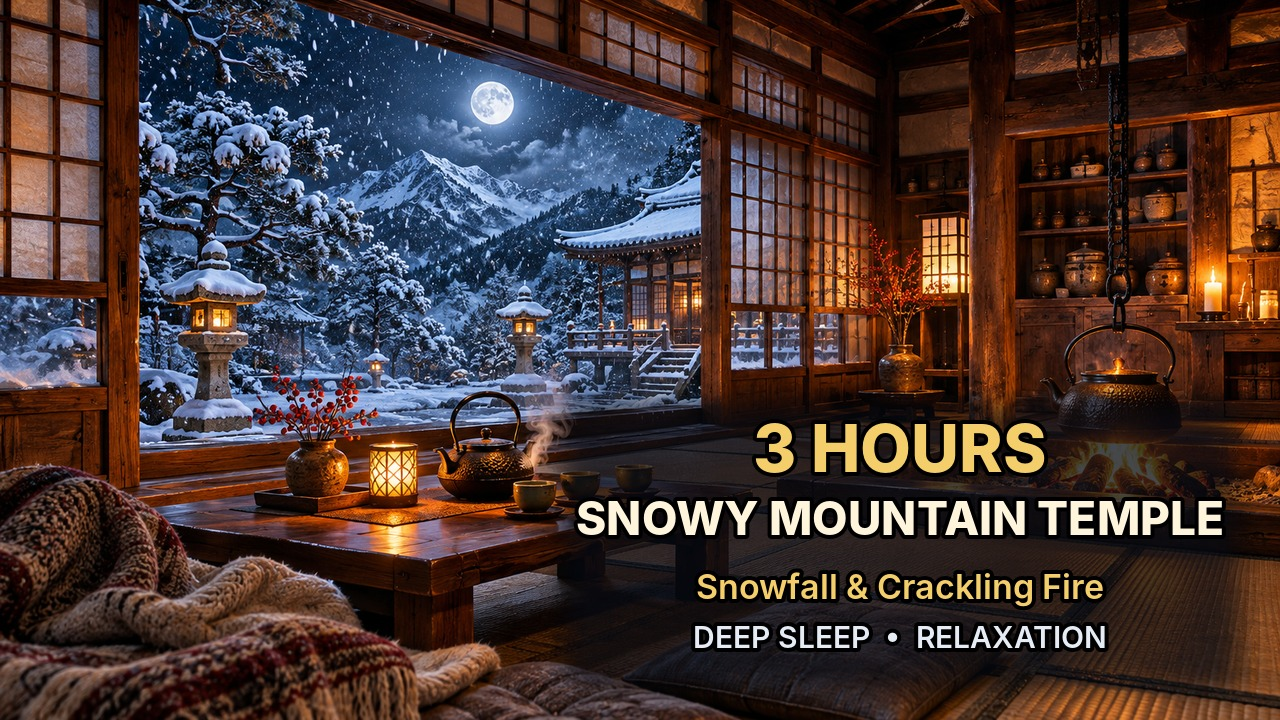
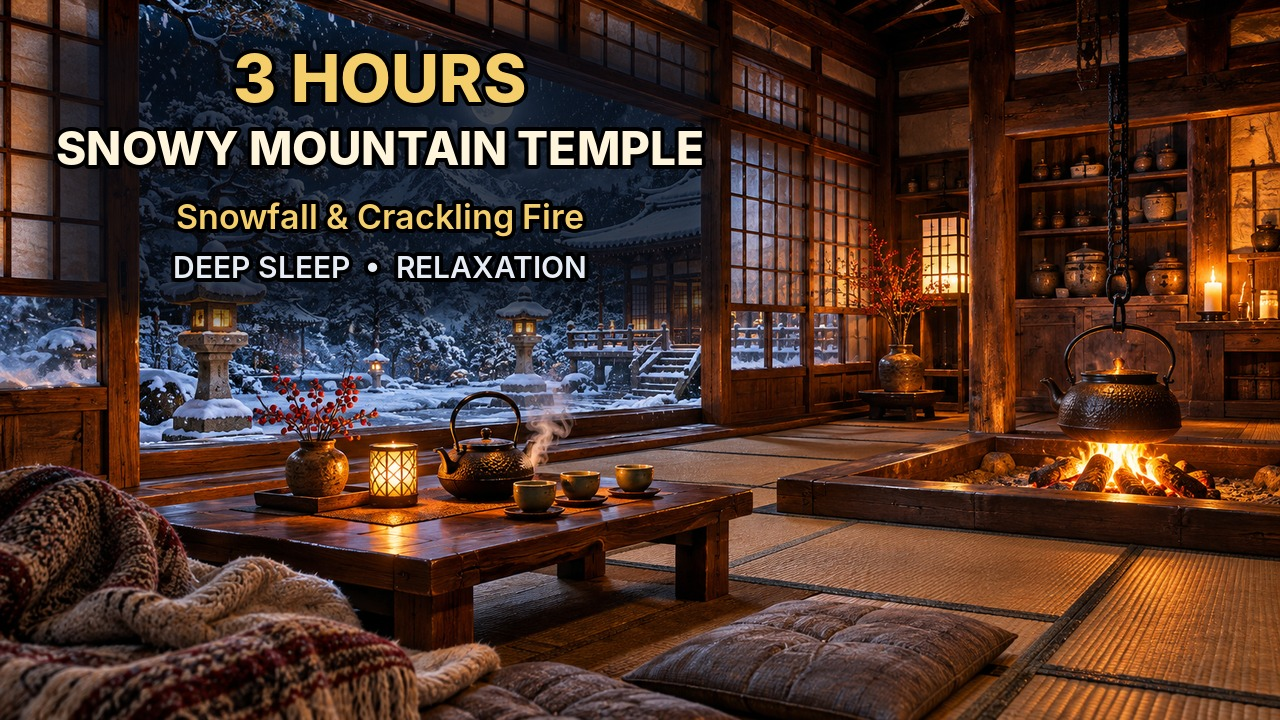
Ateş klibi için parlaklık maskesi (parlak_esik): 26 ve 28'de tuğla levha giderildi; 26 küçük resim yazısı sol üstte
Claude-Session: https://claude.ai/code/session_01BaFTGHwpYBEfroc1wrqooK

diff --git a/dream-window/kapak.py b/dream-window/kapak.py
@@ -78,7 +78,7 @@ def secenek_B(kaynak, baslik, alt):
     return im.convert("RGB")
 
 
-def secenek_C(kaynak, baslik, alt, odak_xy):
+def secenek_C(kaynak, baslik, alt, odak_xy, sol_ust=False):
     ox, oy = odak_xy
     z = 1.18                                                          # hafif yakınlaş (ateş ve pencere kadrajda kalsın)
     w, h = G / z, Y / z
@@ -86,6 +86,16 @@ def secenek_C(kaynak, baslik, alt, odak_xy):
     y0 = min(max(oy * Y - h / 2, 0), Y - h)
     im = kaynak.crop((int(x0), int(y0), int(x0 + w), int(y0 + h))).resize((G, Y), Image.LANCZOS)
     im = im.filter(ImageFilter.UnsharpMask(radius=2, percent=60, threshold=2)).convert("RGBA")
+    if sol_ust:                                                       # ateş alt yarıda görünür kalsın: başlık sol üstte
+        karart = Image.new("L", im.size, 0)
+        ImageDraw.Draw(karart).ellipse((-500, -420, 900, 380), fill=150)
+        im = Image.composite(Image.new("RGBA", im.size, (0, 0, 0, 255)), im, karart.filter(ImageFilter.GaussianBlur(120)))
+        ciz = ImageDraw.Draw(im)
+        f1 = font_sigdir(ciz, baslik, KALIN, 80, 760)
+        golgeli_yazi(im, (56, 56), baslik, f1, BEYAZ)
+        t = f"3 HOURS  ·  {alt.upper()}"
+        golgeli_yazi(im, (58, 56 + int(f1.size * 1.15)), t, font_sigdir(ciz, t, YARI, 34, 760), ALTIN, golge=6, cizgi=3)
+        return im.convert("RGB")
     alt_karart = Image.new("L", im.size, 0)                           # alt bandı koyulaştır
     ImageDraw.Draw(alt_karart).rectangle((0, 470, G, Y), fill=190)
     im = Image.composite(Image.new("RGBA", im.size, (0, 0, 0, 255)), im, alt_karart.filter(ImageFilter.GaussianBlur(70)))
@@ -107,7 +117,7 @@ def main():
         kaynak = Image.open(klasor / ayar.get("gorsel_4k", ayar["gorsel"])).convert("RGB").resize((G, Y), Image.LANCZOS)
         gen = cv2.imread(str(klasor / ayar["gorsel"])).shape[1]
         secenek_B(kaynak, baslik, alt).save(klasor / "kapak_3saat_B.jpg", quality=92)
-        secenek_C(kaynak, baslik, alt, odak(ayar, gen)).save(klasor / "kapak_3saat_C.jpg", quality=92)
+        secenek_C(kaynak, baslik, alt, odak(ayar, gen), ayar.get("kapak_yazi") == "sol_ust").save(klasor / "kapak_3saat_C.jpg", quality=92)
         print(f"{ad}: B ve C hazır ({baslik} / {alt})")
 
 

diff --git a/dream-window/uret.py b/dream-window/uret.py
@@ -283,6 +283,7 @@ class Sahne:
         """sahne.json'da "ates_klip" varsa şöminenin içi gerçek ateş videosuyla değiştirilir (ates_klip.py üretir)."""
         self.klip = None
         k = self.ayar.get("ates_klip")
+        self.parlak_esik = tuple(k["parlak_esik"]) if k and k.get("parlak_esik") else None   # [alt, üst] yeşil kanal eşiği
         if k:
             self.klip, self.klip_kutu, self.klip_maske = self._klip_yukle(k, self.ayar["ates"]["ic"])
 
@@ -411,7 +412,13 @@ class Sahne:
         elif self.klip is not None:
             kx0, ky0, kx1, ky1 = self.klip_kutu
             b = kare[ky0:ky1, kx0:kx1]
-            kare[ky0:ky1, kx0:kx1] = b * (1 - self.klip_maske) + self.klip[n % len(self.klip)] * self.klip_maske
+            ks = self.klip[n % len(self.klip)]
+            mk = self.klip_maske
+            if self.parlak_esik:                                       # klibin tuğla/duvar zemini görünmesin: yalnızca parlak alev geçsin
+                lo, hi = self.parlak_esik
+                u = np.clip((ks[..., 1:2] - lo) / (hi - lo), 0, 1)
+                mk = mk * (u * u * (3 - 2 * u))
+            kare[ky0:ky1, kx0:kx1] = b * (1 - mk) + ks * mk
         else:
             x0, y0, x1, y1 = self.ates_kutu
             self._buk(kare, self.ates_kutu, self.ates_izgara, self.ates_dx(t) * self.ates_agirlik, self.ates_dy(t) * self.ates_agirlik)

diff --git a/dream-window/araclar_test_ates.py b/dream-window/araclar_test_ates.py
@@ -1,0 +1,14 @@
+import sys, json, pathlib, cv2, numpy as np
+a=sys.argv[1:]; ad,etiket,cx,cy=a[0],a[1],int(a[2]),int(a[3])
+sys.argv=['uret.py']+(['--4k'] if '--4k' in a else [])
+sys.path.insert(0,'/home/user/Deneme-2/dream-window')
+import uret
+uret.DONGU=96
+s=uret.Sahne(pathlib.Path('/home/user/Deneme-2/dream-window')/ad)
+if "--eski" in a: s.parlak_esik=None
+K=uret.K; r=1920/1672; cx=int(cx*r); cy=int(cy*r)
+for n in (200,700,1500):
+    f=(np.clip(s.kare(n),0,1)*255).astype(np.uint8) if s.kare(n).dtype!=np.uint8 else s.kare(n)
+    x0,y0=int((cx-160)*K),int((cy-100)*K)
+    c=f[max(y0,0):y0+int(200*K), max(x0,0):x0+int(320*K)]
+    cv2.imwrite(f'/tmp/claude-0/-home-user-Deneme-2/36d569d3-b977-5a25-ab51-fa4671bedd90/scratchpad/{etiket}_{n}.png',cv2.resize(c,None,fx=3/K,fy=3/K))

diff --git a/dream-window/yeni_sahne.py b/dream-window/yeni_sahne.py
@@ -175,6 +175,8 @@ def kapak(klasor, satirlar, cikti):
     kenar = cv2.Canny(gri, 80, 160)
     sol, sag = kenar[400:, :640].mean(), kenar[400:, 640:].mean()
     kutu = (40, 400, 720, 690) if sol <= sag else (560, 400, 1240, 690)
+    if json.loads((klasor / "sahne.json").read_text(encoding="utf-8")).get("kapak_yazi") == "sol_ust":   # ateş sağ altta: yazı ateşi örtmesin
+        kutu = (40, 30, 720, 320)
     cx = (kutu[0] + kutu[2]) // 2
     kat = Image.new("RGBA", im.size, (0, 0, 0, 0))
     ImageDraw.Draw(kat).rounded_rectangle(kutu, radius=18, fill=(6, 10, 18, 190))

diff --git a/.claude/skills/dream-window-yeni-sahne/references/dersler.md b/.claude/skills/dream-window-yeni-sahne/references/dersler.md
@@ -103,3 +103,4 @@ Biçim: tarih ve sahne · ne oldu · bundan sonraki kural · sorumlu.
 - **Shorts'un `son` karesi de yazıdaki öğeyi içermeli (24 tekne evi notu).** shorts 1. saniyede sobayla açılıyordu, ama 24. saniyede soba kadrajdan çıkıyordu ve "Wood Stove" yazısı yalnızca açılışta doğruydu. **Kural:** `bas` ve `son` seçerken iki kadrajı da sahne.png üzerinde hesapla (h = H/yakin, w = h·1080/1920); yazıdaki öğe iki uçta da görünsün. Denetimde 1. ve 24. saniye kareleri birlikte zorunlu.
 - **Bir sahnenin iki Shorts'u aynı yolu ters yönde gezmemeli (25 ağaç ev).** shorts 1380→700, shorts2 700→1380 ayarlanmıştı; iki Shorts aynı karelerden oluşuyordu, yalnızca yön farklıydı. Bu "yeniden kullanılmış içerik" izlenimi verir. **Kural:** shorts2 farklı bir yakınlıkla (`yakin` 1.4–1.5) ve farklı bir yolla gezer; iki Shorts'un `bas`/`son` değerlerini yan yana yazıp karşılaştır.
   - **Patron açıklaması (26 dağ tapınağı):** Tek öğeli yazı ("the tea is still warm") iki uçta da görünmeli. İki öğeli alt yazıda ("Snowfall & Crackling Fire") ve yol pencereden ocağa uzanıyorsa öğelerden biri açılış karesinde, öteki dönüş karesinde (24. sn) görünebilir; izleyici ikisini de aynı Shorts'ta görür. Açıklamadaki öğeler de Shorts boyunca bir uçta görünmeli. Kadraj genişliği iki öğeyi tek karede almaya yetmiyorsa bu kabul edilir; açılış karesinde yazıdaki öğelerden hiçbiri yoksa kabul edilmez.
+- **Ödünç ateş klibinin zemini (tuğla, cam) yeni ocağa taşıyordu (26 dağ tapınağı RET'i).** 03'ün şömine klibi irori'ye kondu; alevin çevresinde tuğla duvarlı dikdörtgen bir levha seçiliyordu. 720p'de zor fark ediliyordu, Shorts yakın planında ve 4K'da açıkça görünüyordu. **Kural:** Ödünç klip kullanılan her sahnede, üretimden önce ateş bölgesini 3× büyütülmüş tek kare olarak çıkar ve bak (`dream-window/araclar_test_ates.py <sahne> <etiket> <x> <y>`). Zemin taşıyorsa `sahne.json` > `ates_klip.parlak_esik: [alt, üst]` aç (26'da [0.5, 0.8]); maske yalnızca parlak alevi geçirir. Sığ ocakta eşik alevi de silebilir; 28'de [0.38, 0.62] gerekti.
